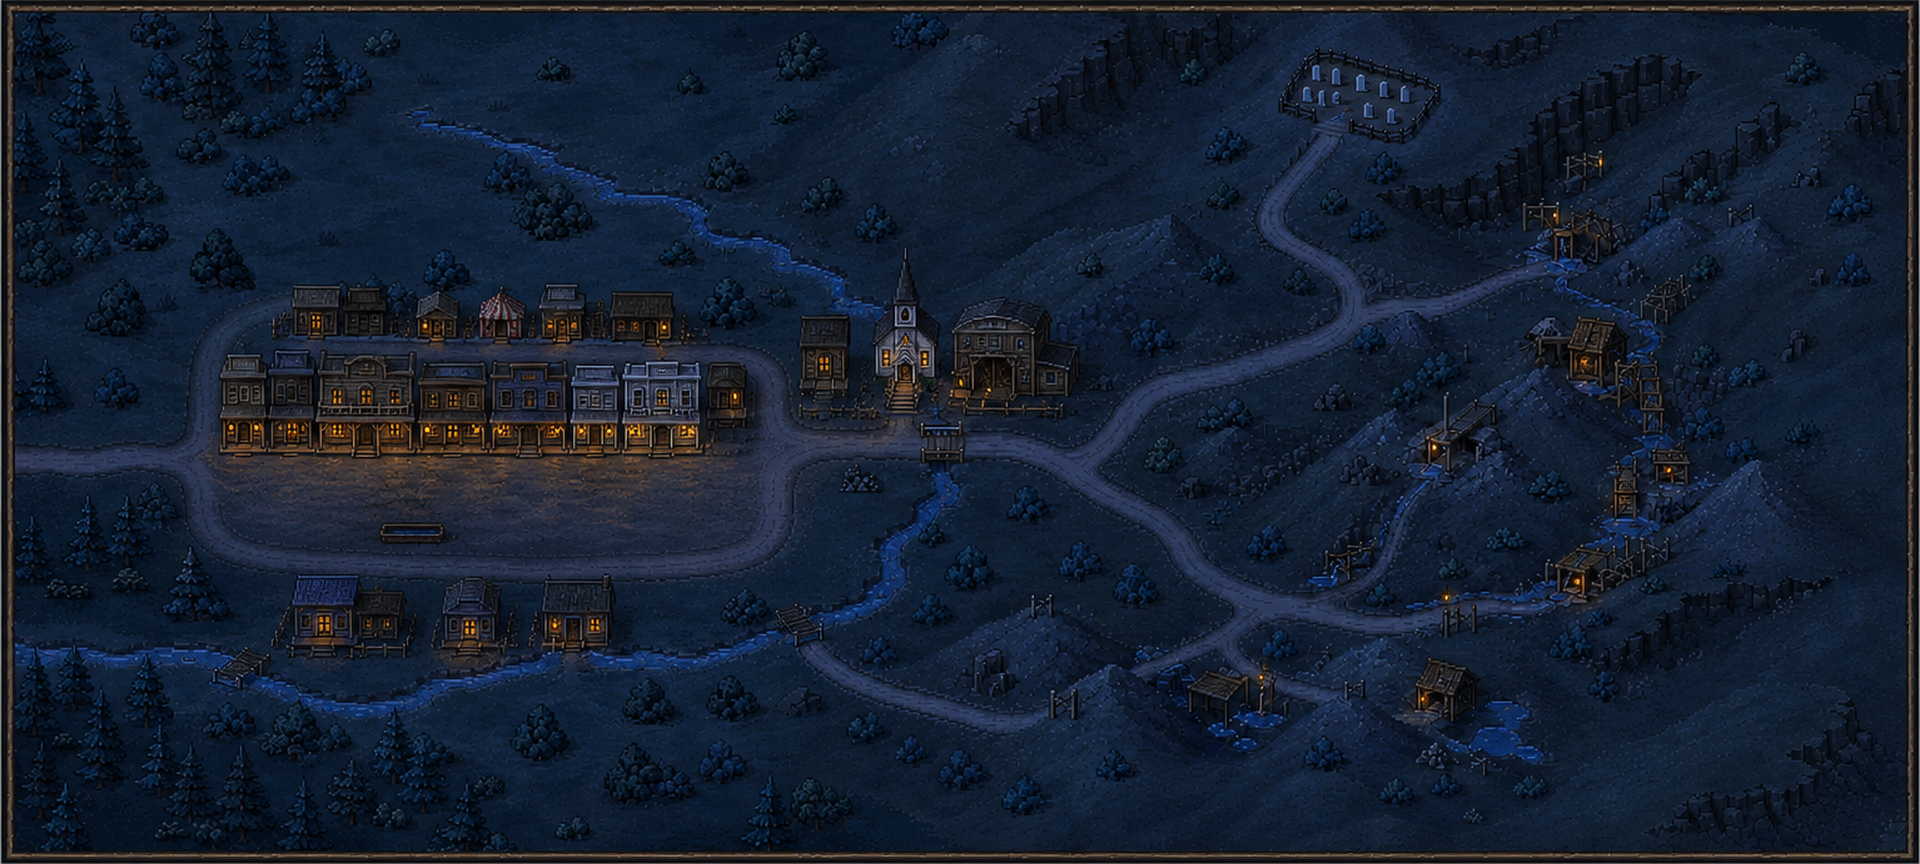
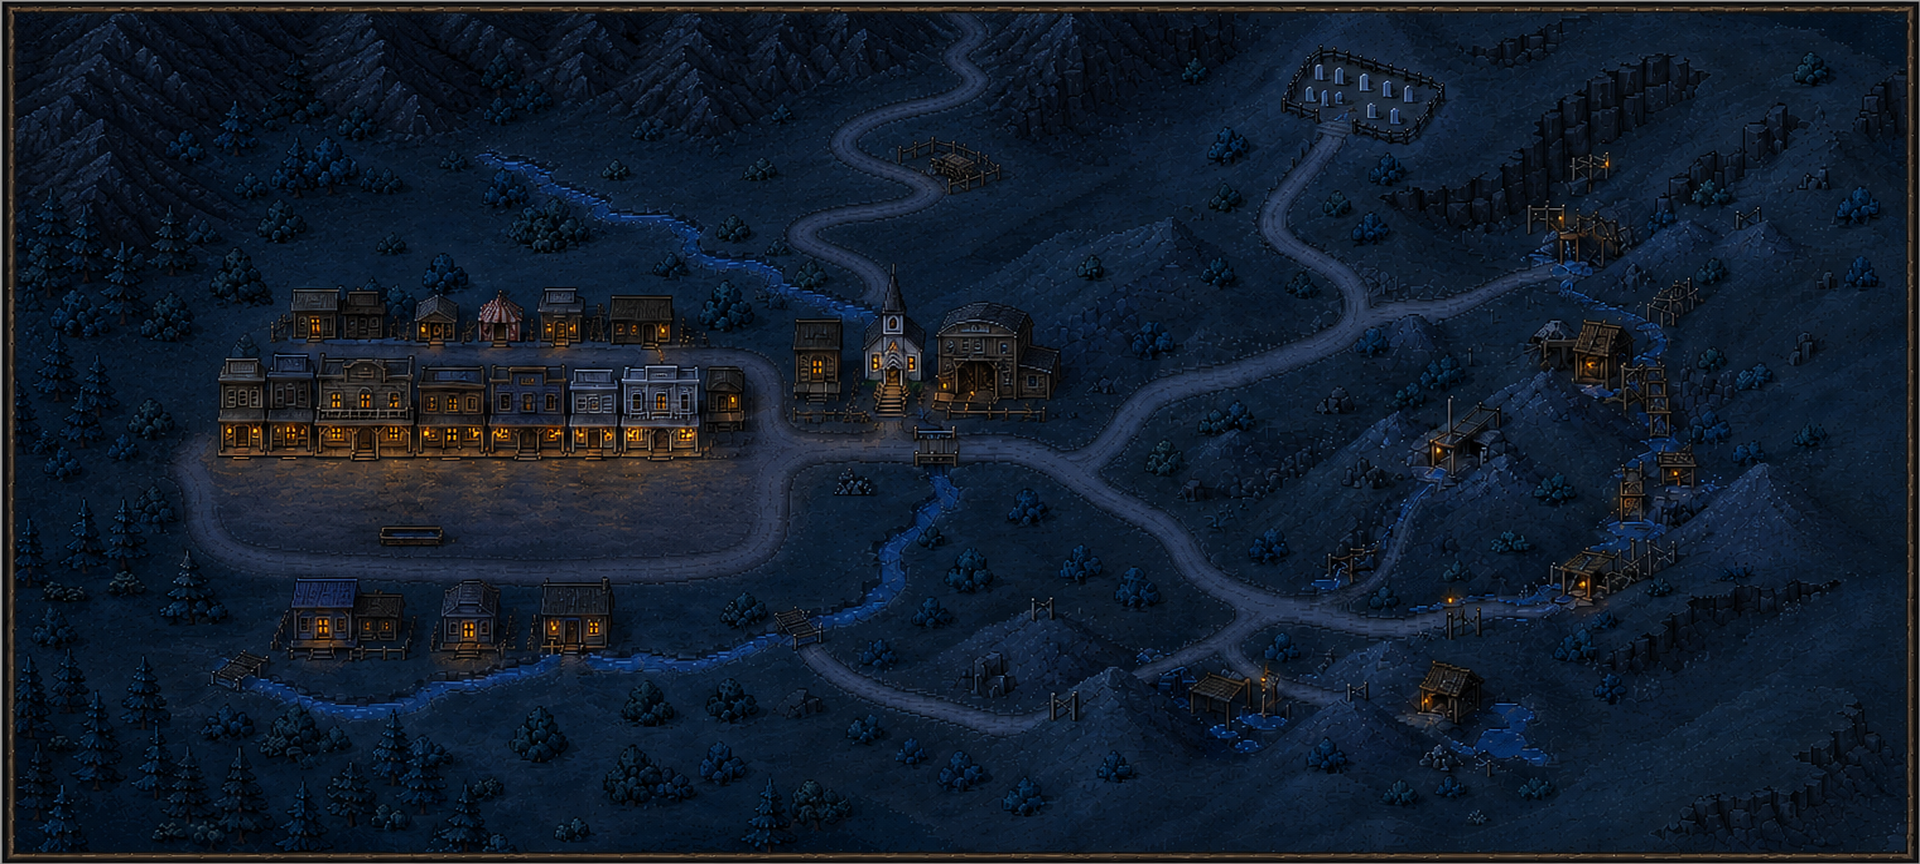
The district map's mountain pass (town-map 4-5 of 5, errata 163 A3)
Redraw 3 drew the pass, coach road, coach stop and mountains but re-laid the
map; the correction (redraw 4) kept them and, fitted to its frame, puts every
anchor within 6 px of the old map. The map's daylight line, put back by #235's
merge, is deleted as the brief says: it now measures as night (27.4).

Claude-Session: https://claude.ai/code/session_01FXbCupzwLJAEr7fqqWYP8A

diff --git a/docs/00-errata.md b/docs/00-errata.md
@@ -4486,7 +4486,7 @@ There were no page errors. One frame of each line is in `renders/cutaways/fansha
   - The generator drew the framed map a little larger and lower than its 20:9 window (x 1–1534, y 148–839), so the fixed window cut it 19 px off. `town-map-edit.py promote-redraw --fit` takes the drawn frame instead. Outside the town it then sits +1, −1 px from the old map, inside the 6 px the brief allows.
   - **The one miss:** the Lane has six shopfronts, counting the tent, not five.
 - **Operation 3, `redraw-02`, the correction,** fixed the Lane but lost the livery from Lower Street and Main Street's eighth front. The livery is a place the player goes (Room 15) and needs its marker, so redraw 1 ships and the correction is kept as a record.
-- `reference/global-baseline.json`: `visualType` is now `district-map-night`, and the `daylight` line is gone. The builder re-places the markers and re-measures the roads on the night map.
+- `reference/global-baseline.json`: `visualType` is now `district-map-night`. (Its `daylight` line came back when #235's brief merged over this; it is deleted with A3's art below, and the map now measures as night, 27.4.) The builder re-places the markers and re-measures the roads on the night map.
 
 **A3 · The mountain pass.** Tyler, after the night map landed: **"at the beginning of the game I clearly walk out of a mountain pass into town. That's noticeable."** The builder read every exterior plate against the map:
 - Room 1's coach stop is a mountain road above the town's lamps, and Thad arrives at Main Street's east end.
@@ -4496,5 +4496,30 @@ There were no page errors. One frame of each line is in `renders/cutaways/fansha
 - One thing cannot be squared: Main Street's plate shows a tall steeple behind its west half, while the church Thad walks to is on Lower Street, east. The map follows the walking layout.
 
 He answered **"That all sounds good"** to one more pass: a pass at the top with the coach road and the coach stop down to the square's east end, mountains on the north and west, and the west road removed. The cap rises to 5, the pass and a correction (attemptsTotal 307 → 308). The brief's third part covers it.
+
+**A3 · The art (the image session, 2026-11-08).** Operations 4 and 5 of 5; the cap is spent.
+- **Operation 4, `redraw-03`,** drew everything asked for:
+  - the pass at the top, left of the graveyard;
+  - the coach road winding down past a small fenced coach stop with a wagon, to the square's east end;
+  - mountains along the north and west;
+  - no west road.
+
+  But it re-laid the whole map: the frame grew to 733 rows, and the town, the houses and the diggings moved by different amounts (10–60 px). A scale-and-shift registration left ±40–55 px of residual, so no fit could place it.
+- **Operation 5, `redraw-04`, the correction,** with the miss stated, kept the pass, the coach road, the stop and the mountains. It drew the frame taller again (776 rows, from y 90), but this time with everything else in proportion. `promote-redraw --fit` puts every anchor within 6 px of the old map:
+  - graveyard −3, 0;
+  - diggings −6, −3;
+  - east bridge +6, −3;
+  - town +1, −3;
+  - houses +1, −3;
+  - south-west bridge +1, −2;
+  - southern mines −4, −2.
+
+  Fitted by a plain scale and shift, the residual is 1–2 px (6.6 at the east bridge).
+- Promoted as `art/backgrounds/room-00-town-map.png`.
+  - The mountains run along the whole north edge and down the north-west.
+  - The lower west edge stays the pine forest that was there, at the foot of the slopes.
+  - The Lane, the church, the livery and the diggings are where they were.
+  - There is no text.
+- The builder re-places the markers and the roads, and adds the pass and the coach stop.
 
 **B · The map's Thad** lands with Lower Street and the Lane (errata 161, part 3), on the branch where it was built, and is recorded here when it merges.
